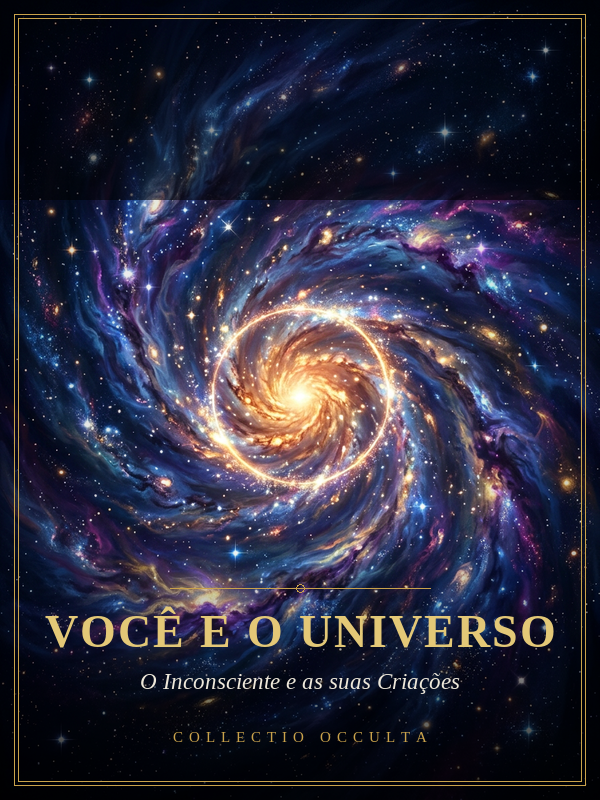
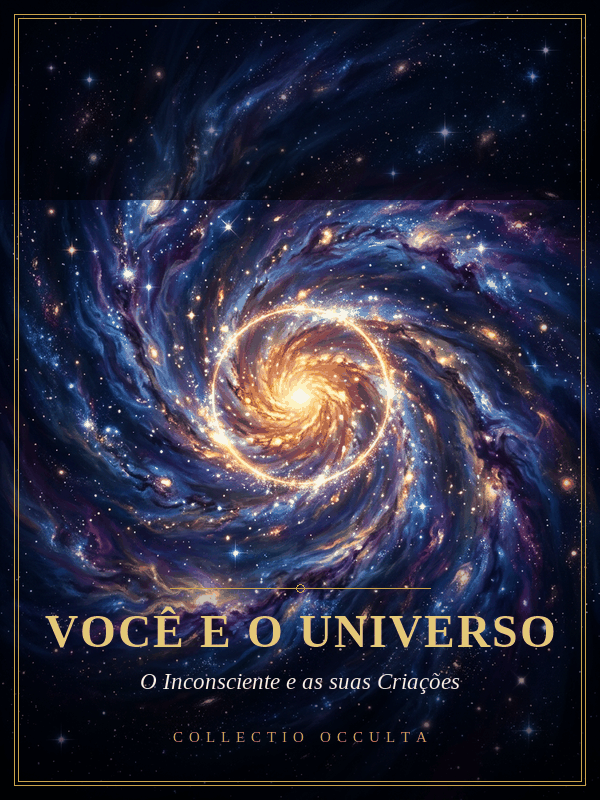
Home + SEO Livro 08: capa do universo otimizada (761KB→294KB) com ?v=2 contra cache; meta tags SEO (título 53, descrição 154, OG/Twitter/canonical); kit SEO PÁGINA 10 e sitemap com /livro08

diff --git a/analise/compraoseu.preview/livro08_preview.html b/analise/compraoseu.preview/livro08_preview.html
@@ -3,9 +3,22 @@
 <head>
 <meta charset="utf-8">
 <meta name="viewport" content="width=device-width, initial-scale=1">
-<title>Você e o Universo — O Inconsciente e as suas Criações · Leitura Online</title>
-<meta name="description" content="Leia online Você e o Universo — O Inconsciente e as suas Criações. 19 capítulos sobre a relação entre mente, inconsciente e realidade. Leitura gratuita e protegida.">
+<title>Você e o Universo — O Inconsciente e as suas Criações</title>
+<meta name="description" content="Leia online Você e o Universo — O Inconsciente e as suas Criações. 19 capítulos sobre a mente, o inconsciente e a realidade. Leitura gratuita e protegida.">
+<meta name="keywords" content="você e o universo, inconsciente, subconsciente, mente, realidade, poder da mente, crenças, visualização, lei da atração, livro espiritual, leitura online grátis">
 <meta name="robots" content="index, follow">
+<link rel="canonical" href="https://www.compraoseu.com/livro08">
+<meta property="og:type" content="article">
+<meta property="og:title" content="Você e o Universo — O Inconsciente e as suas Criações">
+<meta property="og:description" content="19 capítulos sobre a mente, o inconsciente e a realidade. Leitura online gratuita e protegida.">
+<meta property="og:image" content="https://sidneyrma.github.io/instalador/capas/livro08.png?v=2">
+<meta property="og:url" content="https://www.compraoseu.com/livro08">
+<meta property="og:locale" content="pt_BR">
+<meta property="og:site_name" content="Missão com Deus — CompraOSeu">
+<meta name="twitter:card" content="summary_large_image">
+<meta name="twitter:title" content="Você e o Universo — O Inconsciente e as suas Criações">
+<meta name="twitter:description" content="19 capítulos sobre a mente, o inconsciente e a realidade. Leitura online gratuita e protegida.">
+<meta name="twitter:image" content="https://sidneyrma.github.io/instalador/capas/livro08.png?v=2">
 <style>
 :root{
   --navy:#0e1a2e; --navy2:#16283f;
@@ -104,7 +117,7 @@ footer{background:#0a1322; color:#7f8ca1; text-align:center; padding:1.6rem 1.2r
 </header>
 
 <section class="capa">
-  <img class="capa-livro" src="https://sidneyrma.github.io/instalador/capas/livro08.png" alt="Capa do livro Você e o Universo — O Inconsciente e as suas Criações">
+  <img class="capa-livro" src="https://sidneyrma.github.io/instalador/capas/livro08.png?v=2" alt="Capa do livro Você e o Universo — O Inconsciente e as suas Criações">
   <p class="selo">Coleção Oculta</p>
   <h1>Você e o Universo</h1>
   <p class="sub">O Inconsciente e as suas Criações</p>

diff --git a/analise/compraoseu.preview/home_preview.html b/analise/compraoseu.preview/home_preview.html
@@ -477,7 +477,7 @@
 
       <!-- LIVRO 08: VOCÊ E O UNIVERSO -->
       <div class="bib-card">
-        <div class="bib-capa"><img class="capa-img" src="https://sidneyrma.github.io/instalador/capas/livro08.png" alt="Você e o Universo — O Inconsciente e as suas Criações — capa"></div>
+        <div class="bib-capa"><img class="capa-img" src="https://sidneyrma.github.io/instalador/capas/livro08.png?v=2" alt="Você e o Universo — O Inconsciente e as suas Criações — capa do universo"></div>
         <div class="bib-corpo">
           <span class="bib-num">Livro 08 · Disponível</span>
           <h3>Você e o Universo</h3>

diff --git a/analise/compraoseu.preview/gerar_livro08.py b/analise/compraoseu.preview/gerar_livro08.py
@@ -177,9 +177,22 @@ document.addEventListener('keydown', function(e){
 <head>
 <meta charset="utf-8">
 <meta name="viewport" content="width=device-width, initial-scale=1">
-<title>{esc(TITULO)} — {esc(SUBTITULO)} · Leitura Online</title>
-<meta name="description" content="Leia online {esc(TITULO)} — {esc(SUBTITULO)}. 19 capítulos sobre a relação entre mente, inconsciente e realidade. Leitura gratuita e protegida.">
+<title>{esc(TITULO)} — {esc(SUBTITULO)}</title>
+<meta name="description" content="Leia online {esc(TITULO)} — {esc(SUBTITULO)}. 19 capítulos sobre a mente, o inconsciente e a realidade. Leitura gratuita e protegida.">
+<meta name="keywords" content="você e o universo, inconsciente, subconsciente, mente, realidade, poder da mente, crenças, visualização, lei da atração, livro espiritual, leitura online grátis">
 <meta name="robots" content="index, follow">
+<link rel="canonical" href="https://www.compraoseu.com/livro08">
+<meta property="og:type" content="article">
+<meta property="og:title" content="{esc(TITULO)} — {esc(SUBTITULO)}">
+<meta property="og:description" content="19 capítulos sobre a mente, o inconsciente e a realidade. Leitura online gratuita e protegida.">
+<meta property="og:image" content="https://sidneyrma.github.io/instalador/capas/livro08.png?v=2">
+<meta property="og:url" content="https://www.compraoseu.com/livro08">
+<meta property="og:locale" content="pt_BR">
+<meta property="og:site_name" content="Missão com Deus — CompraOSeu">
+<meta name="twitter:card" content="summary_large_image">
+<meta name="twitter:title" content="{esc(TITULO)} — {esc(SUBTITULO)}">
+<meta name="twitter:description" content="19 capítulos sobre a mente, o inconsciente e a realidade. Leitura online gratuita e protegida.">
+<meta name="twitter:image" content="https://sidneyrma.github.io/instalador/capas/livro08.png?v=2">
 <style>{css}</style>
 </head>
 <body>
@@ -199,7 +212,7 @@ document.addEventListener('keydown', function(e){
 </header>
 
 <section class="capa">
-  <img class="capa-livro" src="https://sidneyrma.github.io/instalador/capas/livro08.png" alt="Capa do livro Você e o Universo — O Inconsciente e as suas Criações">
+  <img class="capa-livro" src="https://sidneyrma.github.io/instalador/capas/livro08.png?v=2" alt="Capa do livro Você e o Universo — O Inconsciente e as suas Criações">
   <p class="selo">Coleção Oculta</p>
   <h1>{esc(TITULO)}</h1>
   <p class="sub">{esc(SUBTITULO)}</p>

diff --git a/analise/compraoseu.preview/gerar_capa_livro08_universo.py b/analise/compraoseu.preview/gerar_capa_livro08_universo.py
@@ -108,9 +108,13 @@ def main():
     os.makedirs(os.path.dirname(OUT_CAPA), exist_ok=True)
     os.makedirs(os.path.dirname(OUT_DOCS), exist_ok=True)
     capa.save(OUT_CAPA)
-    capa.save(OUT_DOCS)
+    # Versão otimizada (PNG-8, 256 cores) para o GitHub Pages — ~60% menor,
+    # diferença visual imperceptível, no mesmo patamar das outras capas da coleção.
+    capa_web = capa.quantize(colors=256, method=Image.Quantize.MEDIANCUT,
+                             dither=Image.Dither.FLOYDSTEINBERG)
+    capa_web.save(OUT_DOCS, optimize=True)
     print('Capa universo salva:', OUT_CAPA, capa.size)
-    print('Capa p/ GitHub Pages:', OUT_DOCS, capa.size)
+    print('Capa p/ GitHub Pages (otimizada):', OUT_DOCS, capa.size)
 
 
 if __name__ == '__main__':

diff --git a/analise/seo/kit_seo_completo.md b/analise/seo/kit_seo_completo.md
@@ -1,6 +1,6 @@
 # 🚀 KIT SEO COMPLETO — Preenchimento na Vendd
 
-**Data:** 07/08/2026 · **8 páginas:** Home + 6 leituras + página de agradecimento do quiz
+**Data:** 08/08/2026 · **10 páginas:** Home + 8 leituras (livro01–08) + página de agradecimento do quiz
 
 > ⚠ **IMPORTANTE (não erre):** deixe **DESMARCADOS** os campos **"Não indexar (noindex)"**
 > e **"Não seguir (nofollow)"** em todas as páginas (exceto a de obrigado — ver nota).
@@ -243,4 +243,31 @@ Suba as imagens da pasta `analise/seo/` no imgbb e use os links:
 
 ---
 
-*Atualizado em 07/08/2026 — adicionada página 9 (livro07)*
+## 📄 PÁGINA 10 — LEITURA LIVRO 08 (`/livro08` — Você e o Universo)
+
+### Metadados Básicos
+| Campo | Valor (copie e cole) |
+|---|---|
+| **Título** (53) | `Você e o Universo — O Inconsciente e as suas Criações` |
+| **Descrição** (154) | `Leia online Você e o Universo — O Inconsciente e as suas Criações. 19 capítulos sobre a mente, o inconsciente e a realidade. Leitura gratuita e protegida.` |
+| **Keywords** | `você e o universo, inconsciente, subconsciente, mente, realidade, poder da mente, crenças, visualização, lei da atração, livro espiritual, leitura online grátis` |
+| **URL Canônica** | `https://www.compraoseu.com/livro08` |
+
+### Favicon / OG / Twitter
+- **Favicon:** mesmo `favicon-32.png`
+- **OG Title:** `Você e o Universo — O Inconsciente e as suas Criações`
+- **OG Description:** `19 capítulos sobre a mente, o inconsciente e a realidade. Leitura online gratuita e protegida.`
+- **Imagem OG:** `https://sidneyrma.github.io/instalador/capas/livro08.png?v=2` (a capa do universo)
+- **OG Type:** `article`
+- **Twitter Card Type:** `summary_large_image`
+
+### Configurações
+- **noindex:** ❌ DESMARCADO · **nofollow:** ❌ DESMARCADO
+
+> 💡 **Dica:** a capa do universo já está pronta em `docs/capas/livro08.png` (600×800,
+> otimizada para web) e é servida pelo GitHub Pages. Use-a como imagem OG — ao
+> compartilhar no WhatsApp, a capa aparece junto do link.
+
+---
+
+*Atualizado em 08/08/2026 — adicionada página 10 (livro08 — Você e o Universo)*

diff --git a/analise/seo/guia_search_console.md b/analise/seo/guia_search_console.md
@@ -56,7 +56,7 @@ https://www.compraoseu.com/sitemap.xml
 3. Clique em **"Testar URL ao vivo"**;
 4. Se estiver tudo certo, clique em **"Solicitar indexação"**.
 
-Repita para as páginas principais: `/livro01` a `/livro07`.
+Repita para as páginas principais: `/livro01` a `/livro08`.
 
 ### Relatório de páginas
 1. Menu **"Índice" → "Páginas"**;
@@ -72,7 +72,7 @@ Os "1 erro" que apareceram nos seus sitemaps anteriores eram provavelmente:
 
 | Erro | Causa | Solução |
 |---|---|---|
-| **URLs antigas excluídas** | Páginas que você removeu da Vendd (ex.: `/obrigado`, `/conectai`, versões antigas) | Deixe-as fora do sitemap (o novo sitemap só tem as 9 atuais) |
+| **URLs antigas excluídas** | Páginas que você removeu da Vendd (ex.: `/obrigado`, `/conectai`, versões antigas) | Deixe-as fora do sitemap (o novo sitemap só tem as 10 atuais) |
 | **Sitemap malformado** | XML com erro de sintaxe | Use o `sitemap.xml` que criei (validado) |
 | **Página noindex no sitemap** | O `/quiz` tem noindex | O novo sitemap ainda o inclui (é aceitável), mas o Google avisa |
 
@@ -82,7 +82,7 @@ Os "1 erro" que apareceram nos seus sitemaps anteriores eram provavelmente:
 
 ## 5) RECOMENDAÇÕES FINAIS
 
-- ✅ **Envie o sitemap novo** (com as 9 URLs corretas);
+- ✅ **Envie o sitemap novo** (com as 10 URLs corretas);
 - ✅ **Solicite indexação** das páginas principais após publicar;
 - ⏳ **Aguarde 3-7 dias** para o Google rastrear (páginas novas demoram mais);
 - 📊 Acompanhe em **"Performance"** (cliques, impressões, palavras-chave);
@@ -94,7 +94,7 @@ Os "1 erro" que apareceram nos seus sitemaps anteriores eram provavelmente:
 
 | Arquivo | Uso |
 |---|---|
-| `sitemap.xml` | Enviar no GSC (9 URLs) |
+| `sitemap.xml` | Enviar no GSC (10 URLs) |
 | `robots.txt` | Orientar buscadores + apontar o sitemap |
 | `guia_search_console.md` | Este guia |
 
